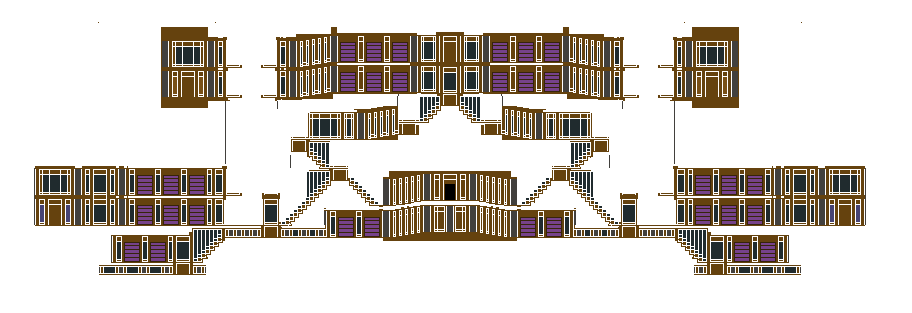
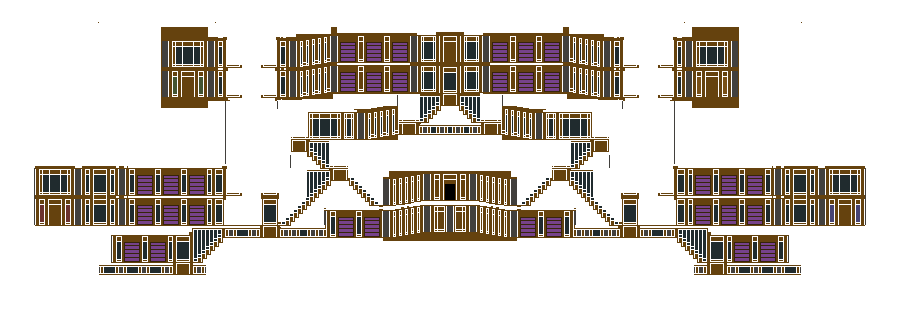
add new finial and pillars

diff --git a/Content/WorldGeneration/Archives/ArchiveFoyer.cs b/Content/WorldGeneration/Archives/ArchiveFoyer.cs
@@ -47,14 +47,22 @@ namespace OvermorrowMod.Content.WorldGeneration.Archives
             WorldGen.PlaceObject(x + 250, y + 236, ModContent.TileType<HallwayPillar>());
             WorldGen.PlaceObject(x + 258, y + 236, ModContent.TileType<HallwayPillar>());
 
-            WorldGen.PlaceObject(x + 264, y + 236, ModContent.TileType<WoodenStairs>());
+            WorldGen.PlaceObject(x + 263, y + 236, ModContent.TileType<WoodenStairs>());
 
-            WorldGen.PlaceObject(x + 282, y + 236, ModContent.TileType<HallwayPillar>());
-            WorldGen.PlaceObject(x + 290, y + 236, ModContent.TileType<HallwayPillar>());
-            WorldGen.PlaceObject(x + 299, y + 236, ModContent.TileType<HallwayPillar>());
-            WorldGen.PlaceObject(x + 307, y + 236, ModContent.TileType<HallwayPillar>());
+            WorldGen.PlaceObject(x + 281, y + 236, ModContent.TileType<HallwayPillar>());
+            WorldGen.PlaceObject(x + 283, y + 231, ModContent.TileType<WoodenArchSmall>());
+            WorldGen.PlaceObject(x + 289, y + 236, ModContent.TileType<HallwayPillar>());
+            WorldGen.PlaceObject(x + 291, y + 231, ModContent.TileType<WoodenArchSmall>());
+            WorldGen.PlaceObject(x + 297, y + 236, ModContent.TileType<HallwayPillar>());
+
+            WorldGen.PlaceObject(x + 308, y + 236, ModContent.TileType<HallwayPillar>());
+            WorldGen.PlaceObject(x + 310, y + 231, ModContent.TileType<WoodenArchSmall>());
             WorldGen.PlaceObject(x + 316, y + 236, ModContent.TileType<HallwayPillar>());
+            WorldGen.PlaceObject(x + 318, y + 231, ModContent.TileType<WoodenArchSmall>());
             WorldGen.PlaceObject(x + 324, y + 236, ModContent.TileType<HallwayPillar>());
+
+            PlaceBookshelfArch(x + 339, y + 211);
+            PlaceBookshelfArch(x + 365, y + 211);
 
             WorldGen.PlaceObject(x + 385, y + 236, ModContent.TileType<WaxCandleholder>());
 
@@ -68,6 +76,9 @@ namespace OvermorrowMod.Content.WorldGeneration.Archives
             TileUtils.PlaceTileWithEntity<SanctumGate, SanctumGate_TE>(x + 443, y + 199);
 
             WorldGen.PlaceObject(x + 513, y + 236, ModContent.TileType<WaxCandleholder>());
+
+            PlaceBookshelfArch(x + 521, y + 211);
+            PlaceBookshelfArch(x + 547, y + 211);
 
             WorldGen.PlaceObject(x + 574, y + 236, ModContent.TileType<HallwayPillar>());
             WorldGen.PlaceObject(x + 582, y + 236, ModContent.TileType<HallwayPillar>());
@@ -102,12 +113,53 @@ namespace OvermorrowMod.Content.WorldGeneration.Archives
             #endregion
 
             #region Left Stairs
-            WorldGen.PlaceObject(x + 261, y + 224, ModContent.TileType<WoodenPillar2>());
+            WorldGen.PlaceObject(x + 77, y + 194, ModContent.TileType<WaxCandleholder>());
+            PlaceLoungeArea(x + 43, y + 194, RoomID.Red);
+            WorldGen.PlaceObject(x + 121, y + 194, ModContent.TileType<WaxCandleholder>());
 
+            WorldGen.PlaceObject(x + 48, y + 199, ModContent.TileType<WoodenArch>());
+            PlaceAndConfigureDoor(x + 49, y + 224, DoorID.RedRoomEntrance, DoorID.RedRoom);
+            WorldGen.PlaceObject(x + 77, y + 224, ModContent.TileType<WaxCandleholder>());
+            WorldGen.PlaceObject(x + 121, y + 224, ModContent.TileType<WaxCandleholder>());
+
+            WorldGen.PlaceObject(x + 240, y + 194, ModContent.TileType<Finial>());
+            WorldGen.PlaceObject(x + 240, y + 224, ModContent.TileType<WoodenPillar2>());
+            WorldGen.PlaceObject(x + 243, y + 195, ModContent.TileType<ArchiveBridge>());
+
+            WorldGen.PlaceObject(x + 260, y + 194, ModContent.TileType<Finial>());
+            WorldGen.PlaceObject(x + 260, y + 224, ModContent.TileType<WoodenPillar2>());
+            WorldGen.PlaceObject(x + 277, y + 194, ModContent.TileType<Finial>());
+
+            WorldGen.PlaceObject(x + 306, y + 138, ModContent.TileType<WoodenPillar2>());
+
+            WorldGen.PlaceObject(x + 289, y + 150, ModContent.TileType<StairPillar>());
+            WorldGen.PlaceObject(x + 292, y + 150, ModContent.TileType<WoodenStairs>());
+
+            WorldGen.PlaceObject(x + 330, y + 167, ModContent.TileType<WoodenPillar2>());
+            WorldGen.PlaceObject(x + 333, y + 179, ModContent.TileType<WoodenStairs>());
+            WorldGen.PlaceObject(x + 347, y + 179, ModContent.TileType<StairPillar>());
+            WorldGen.PlaceObject(x + 346, y + 179, ModContent.TileType<StairPillar>());
+            WorldGen.PlaceObject(x + 348, y + 179, ModContent.TileType<StairPillar>());
+
+            WorldGen.PlaceObject(x + 402, y + 133, ModContent.TileType<WoodenStairs>());
+            WorldGen.PlaceObject(x + 416, y + 121, ModContent.TileType<WoodenPillar2>());
+
+            WorldGen.PlaceObject(x + 443, y + 104, ModContent.TileType<WoodenStairs>());
             #endregion
 
             #region Right Stairs
-            WorldGen.PlaceObject(x + 619, y + 224, ModContent.TileType<WoodenPillar2>());
+            WorldGen.PlaceObject(x + 620, y + 224, ModContent.TileType<WoodenPillar2>());
+
+            WorldGen.PlaceObject(x + 777, y + 194, ModContent.TileType<WaxCandleholder>());
+            WorldGen.PlaceObject(x + 777, y + 224, ModContent.TileType<WaxCandleholder>());
+
+            WorldGen.PlaceObject(x + 821, y + 194, ModContent.TileType<WaxCandleholder>());
+            WorldGen.PlaceObject(x + 821, y + 224, ModContent.TileType<WaxCandleholder>());
+
+            PlaceLoungeArea(x + 833, y + 194, RoomID.Blue);
+
+            WorldGen.PlaceObject(x + 48, y + 199, ModContent.TileType<WoodenArch>());
+            PlaceAndConfigureDoor(x + 838, y + 224, DoorID.FoyerBlueRoomDoor, DoorID.BlueShrimpRoomEntrance);
 
             #endregion
             return;

diff --git a/Content/Tiles/Archives/MultiTiles/StairPillar.cs b/Content/Tiles/Archives/MultiTiles/StairPillar.cs
@@ -1,0 +1,38 @@
+using Microsoft.Xna.Framework;
+using OvermorrowMod.Common;
+using System.Linq;
+using Terraria;
+using Terraria.DataStructures;
+using Terraria.Enums;
+using Terraria.ID;
+using Terraria.ModLoader;
+using Terraria.ObjectData;
+
+namespace OvermorrowMod.Content.Tiles.Archives
+{
+    public class StairPillar : ModTile
+    {
+        public override string Texture => AssetDirectory.ArchiveTiles + Name;
+
+        public override bool CanExplode(int i, int j) => false;
+        public override void SetStaticDefaults()
+        {
+            Main.tileFrameImportant[Type] = true;
+            Main.tileNoAttach[Type] = false;
+
+            TileObjectData.newTile.Width = 3;
+            TileObjectData.newTile.Height = 38;
+            TileObjectData.newTile.CoordinateHeights = Enumerable.Repeat(16, TileObjectData.newTile.Height).ToArray();
+
+            TileObjectData.newTile.UsesCustomCanPlace = true;
+            TileObjectData.newTile.Origin = new Point16(0, TileObjectData.newTile.Height - 1);
+
+            TileObjectData.newTile.CoordinateWidth = 16;
+            TileObjectData.newTile.CoordinatePadding = 2;
+
+            TileObjectData.addTile(Type);
+
+            AddMapEntry(new Color(100, 61, 41));
+        }
+    }
+}

diff --git a/Content/Tiles/Archives/MultiTiles/Finial.cs b/Content/Tiles/Archives/MultiTiles/Finial.cs
@@ -1,0 +1,38 @@
+using Microsoft.Xna.Framework;
+using OvermorrowMod.Common;
+using System.Linq;
+using Terraria;
+using Terraria.DataStructures;
+using Terraria.Enums;
+using Terraria.ID;
+using Terraria.ModLoader;
+using Terraria.ObjectData;
+
+namespace OvermorrowMod.Content.Tiles.Archives
+{
+    public class Finial : ModTile
+    {
+        public override string Texture => AssetDirectory.ArchiveTiles + Name;
+
+        public override bool CanExplode(int i, int j) => false;
+        public override void SetStaticDefaults()
+        {
+            Main.tileFrameImportant[Type] = true;
+            Main.tileNoAttach[Type] = false;
+
+            TileObjectData.newTile.Width = 3;
+            TileObjectData.newTile.Height = 6;
+            TileObjectData.newTile.CoordinateHeights = Enumerable.Repeat(16, TileObjectData.newTile.Height).ToArray();
+
+            TileObjectData.newTile.UsesCustomCanPlace = true;
+            TileObjectData.newTile.Origin = new Point16(0, 5);
+
+            TileObjectData.newTile.CoordinateWidth = 16;
+            TileObjectData.newTile.CoordinatePadding = 2;
+
+            TileObjectData.addTile(Type);
+
+            AddMapEntry(new Color(100, 61, 41));
+        }
+    }
+}

diff --git a/Content/Tiles/Archives/Collision/WoodenStairs.cs b/Content/Tiles/Archives/Collision/WoodenStairs.cs
@@ -41,17 +41,12 @@ namespace OvermorrowMod.Content.Tiles.Archives
 
         public override void NearbyEffects(int i, int j, bool closer)
         {
-            //var dust = Dust.NewDustDirect(new Vector2(i, j).ToWorldCoordinates(), 1, 1, DustID.Torch);
-            //dust.noGravity = true;
-
-            //Tile tile = Framing.GetTileSafely(i, j);
             Tile tile = Framing.GetTileSafely(i, j);
             var topLeft = TileObjectData.TopLeft(i, j);
            
             if (tile.TileFrameX == 0 && tile.TileFrameY == 0)
             {
                 SpawnCollisionHandler<StairCollision>(topLeft.X, topLeft.Y, 14, Height, ModContent.NPCType<StairCollision>());
-                //SpawnCollisionHandler<StairCollision>(i, j, 14, Height, ModContent.NPCType<StairCollision>());
             }
         }
     }

diff --git a/Content/WorldGeneration/Archives/Base/GrandArchiveRoom.cs b/Content/WorldGeneration/Archives/Base/GrandArchiveRoom.cs
@@ -84,6 +84,7 @@ namespace OvermorrowMod.Content.WorldGeneration.Archives
             [new Color(180, 58, 0)] = (ModContent.TileType<Fireplace>(), 1),
             [new Color(99, 49, 110)] = (ModContent.TileType<FireplacePillar>(), 1),
             [new Color(223, 113, 38)] = (ModContent.TileType<FloorCandles>(), 6),
+            [new Color(193, 0, 83)] = (ModContent.TileType<StairPillar>(), 1),
             [new Color(74, 15, 56)] = (ModContent.TileType<WoodenPillar>(), 1),
             [new Color(179, 36, 136)] = (ModContent.TileType<WoodenPillar2>(), 1),
             [new Color(128, 20, 95)] = (ModContent.TileType<SmallPillar>(), 1),

diff --git a/Common/CustomCollision/CustomTileCollision.cs b/Common/CustomCollision/CustomTileCollision.cs
@@ -27,8 +27,6 @@ namespace OvermorrowMod.Common.CustomCollision
                     if (Main.npc[collider].ModNPC is T collision)
                     {
                         collision.parentTile = Main.tile[i, j];
-                        Main.npc[collider].width = 1;
-                        Main.npc[collider].height = 1;
                     }
                 }
             }
